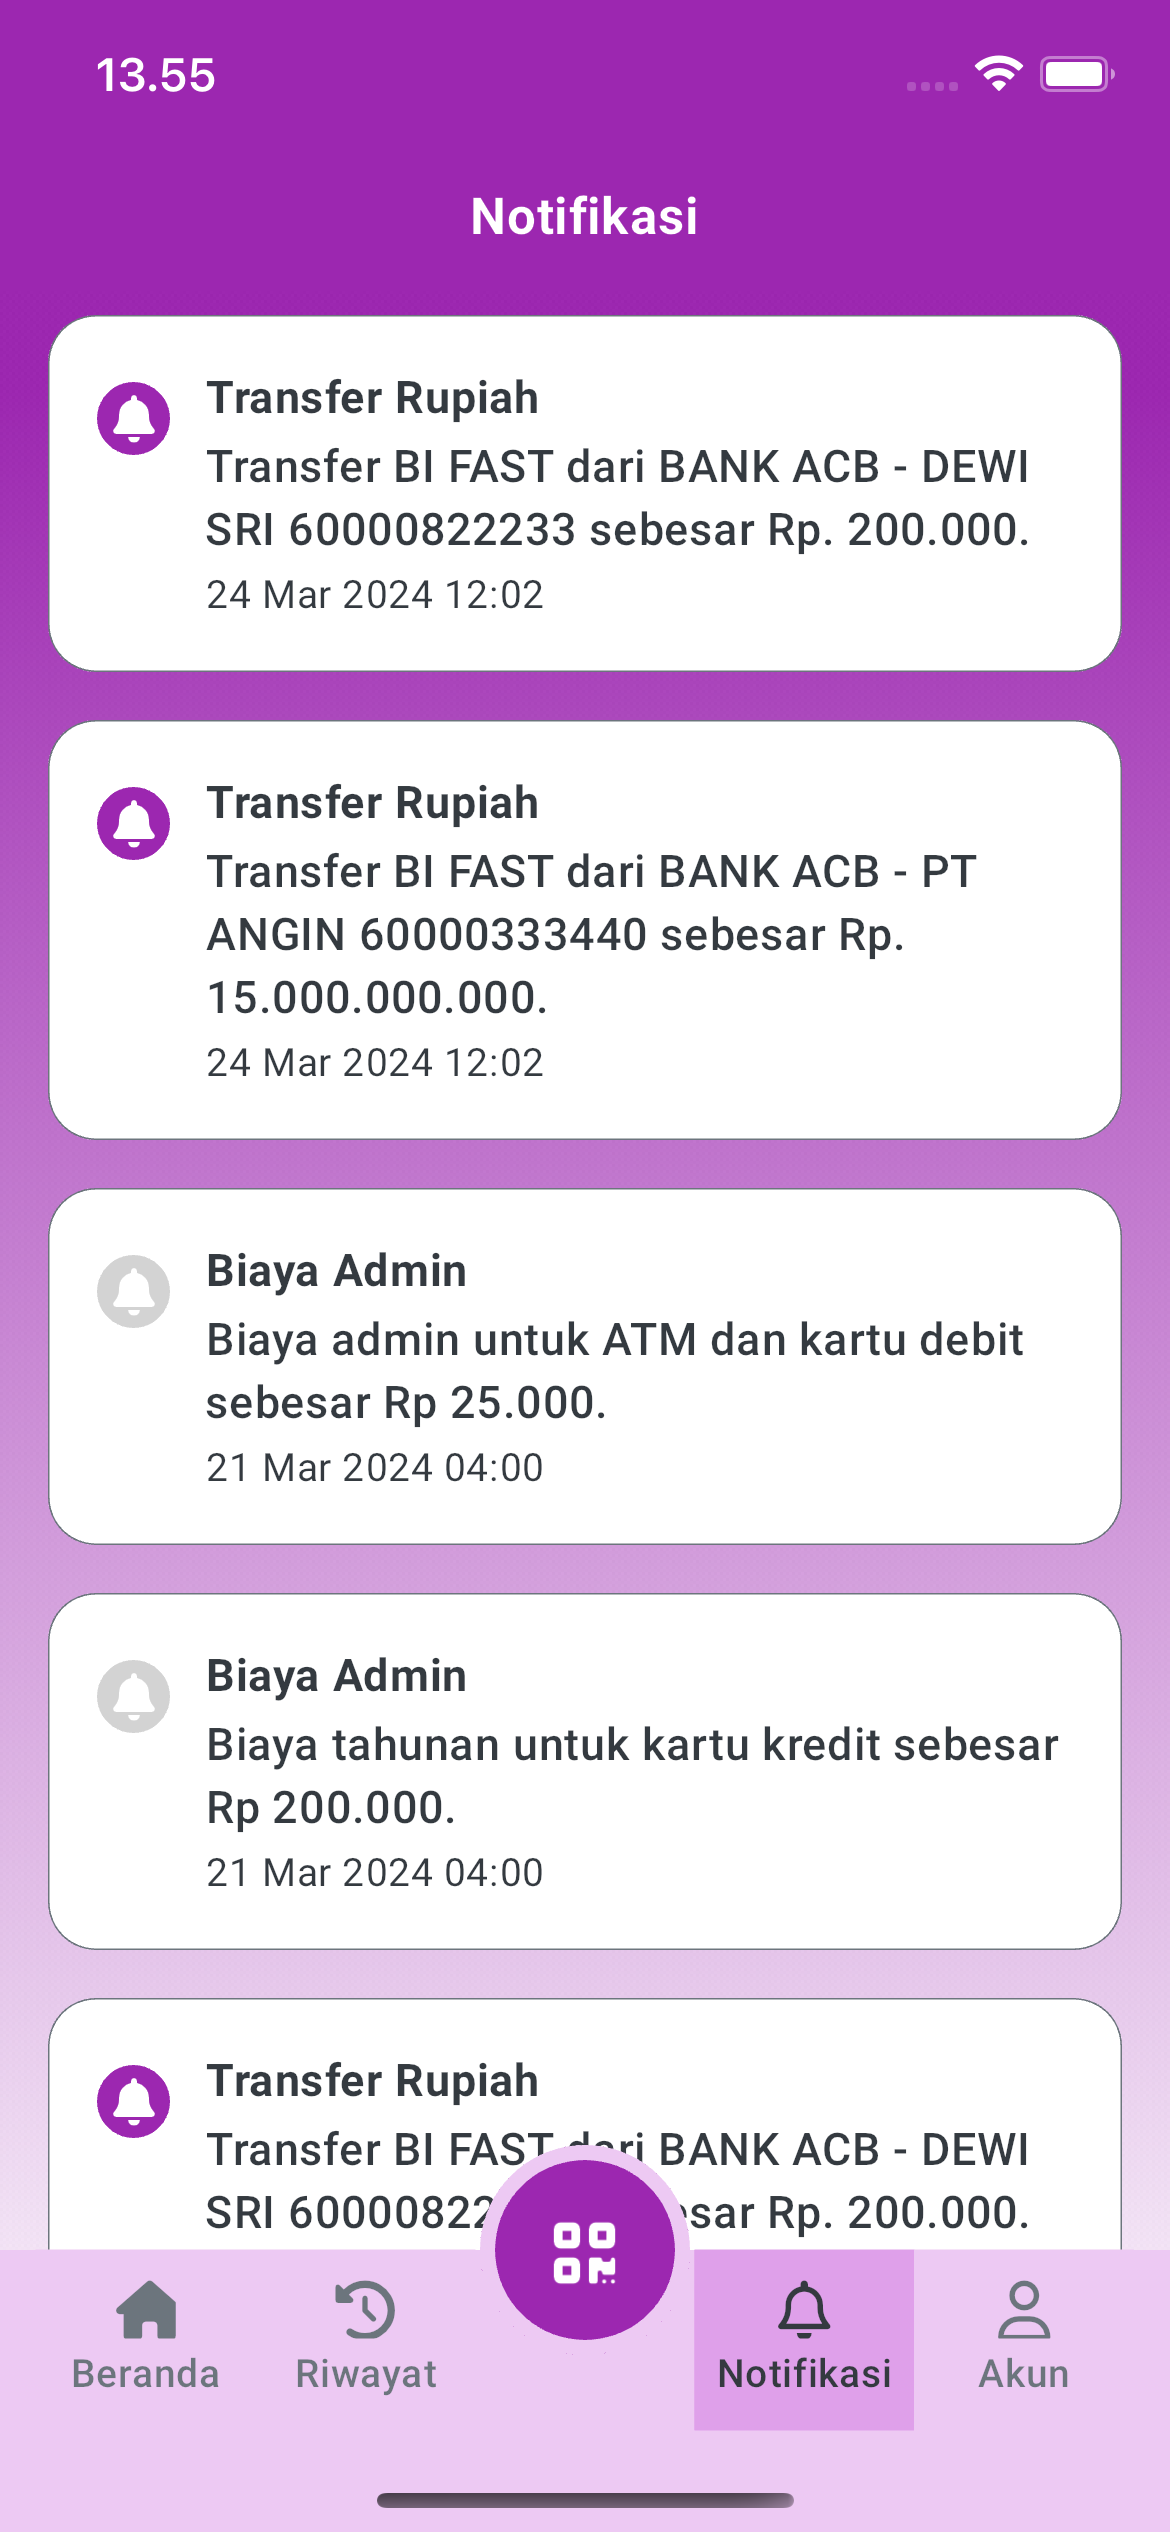
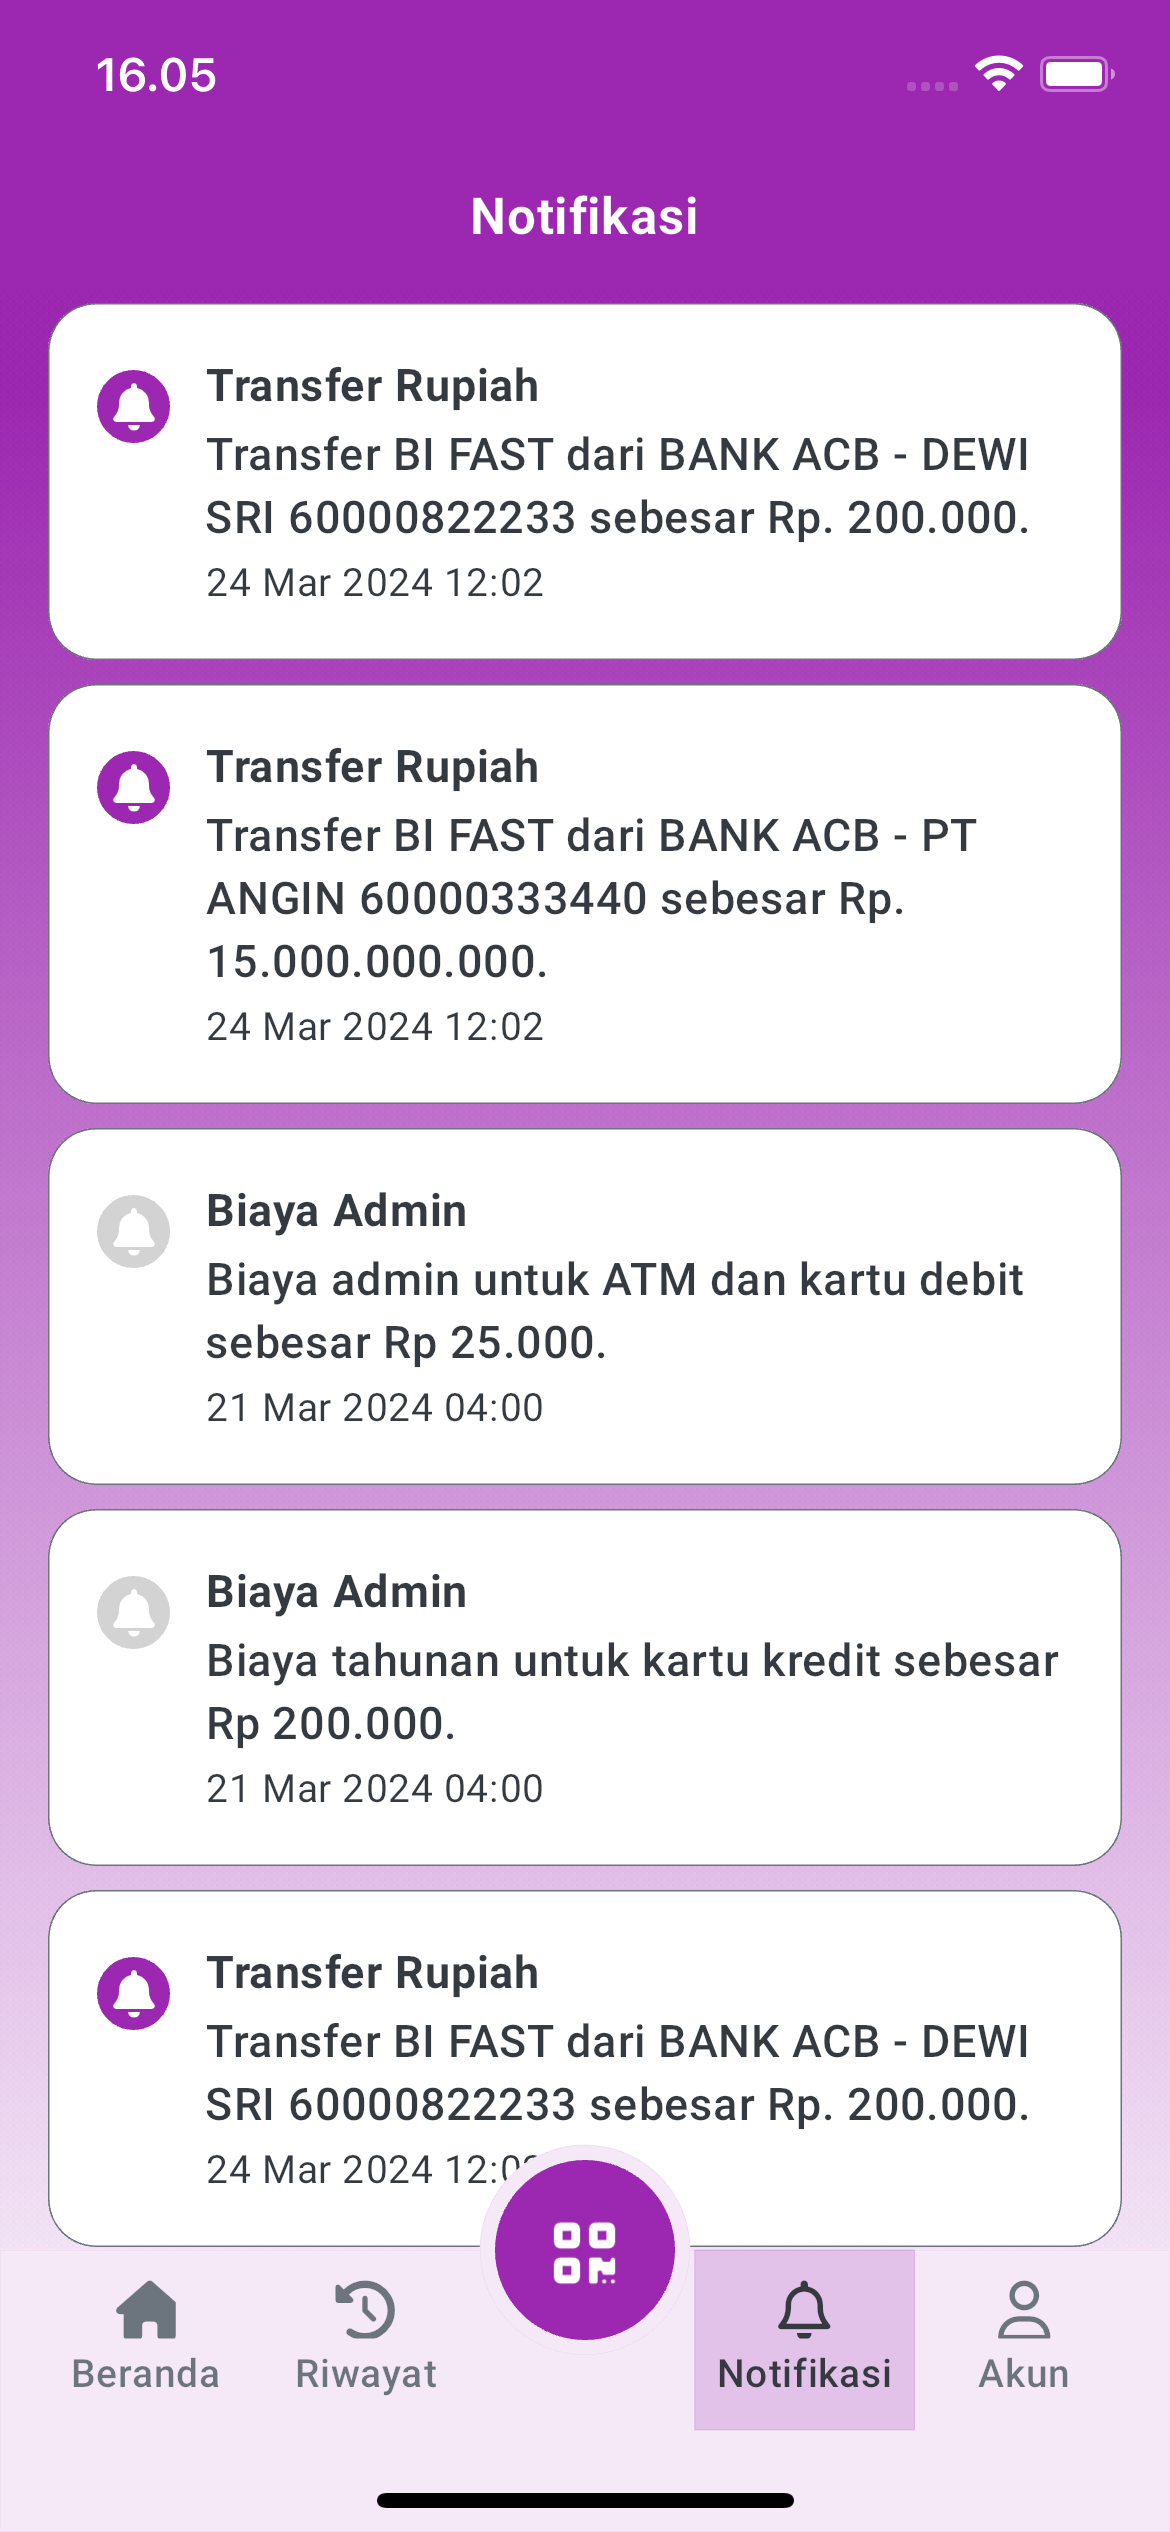
Profile menus

diff --git a/lib/views/mbx_profile_page/mbx_profile_page.dart b/lib/views/mbx_profile_page/mbx_profile_page.dart
@@ -63,7 +63,7 @@ class MbxProfilePage extends StatelessWidget {
                 child: ContainerX(
                   backgroundColor: ColorX.white,
                   cornerRadius: 16.0,
-                  padding: EdgeInsets.all(16.0),
+                  padding: EdgeInsets.only(top: 16.0, bottom: 16.0),
                   child: Column(
                     children: [
                       MbaxProfileMenuButton(

diff --git a/lib/views/mbx_notification_page/mbx_notification_cell.dart b/lib/views/mbx_notification_page/mbx_notification_cell.dart
@@ -11,7 +11,7 @@ class MbxNotificationCell extends StatelessWidget {
   Widget build(BuildContext context) {
     return Padding(
         padding:
-            EdgeInsets.only(left: 16.0, top: 8.0, right: 16.0, bottom: 8.0),
+            EdgeInsets.only(left: 16.0, top: 4.0, right: 16.0, bottom: 4.0),
         child: ContainerX(
             backgroundColor: ColorX.white,
             borderWidth: 0.5,

diff --git a/lib/views/mbx_profile_page/mbx_profile_menu_button.dart b/lib/views/mbx_profile_page/mbx_profile_menu_button.dart
@@ -24,7 +24,6 @@ class MbaxProfileMenuButton extends StatelessWidget {
       padding: EdgeInsets.only(left: 0.0, top: 0.0, right: 0.0, bottom: 0.0),
       child: InkWellX(
           highlightColor: ColorX.theme.withOpacity(0.1),
-          cornerRadius: 8.0,
           onClicked: () {
             onClicked!();
           },
